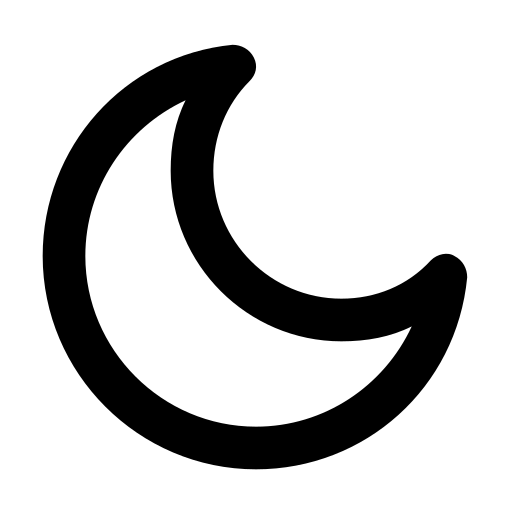
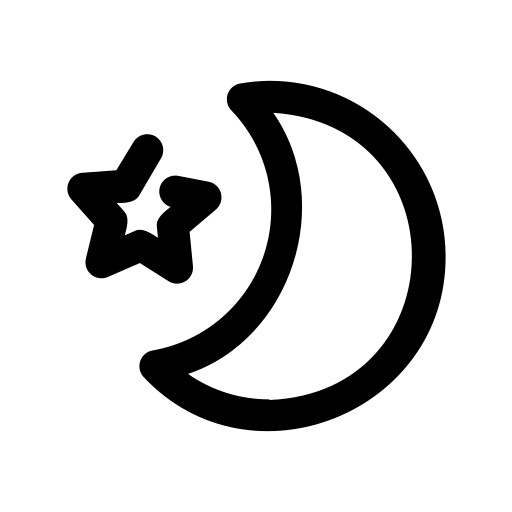
feat: add classes for dark theme

diff --git a/rs-react-app/src/components/Pagination/Pagination.tsx b/rs-react-app/src/components/Pagination/Pagination.tsx
@@ -35,11 +35,13 @@ export default function Pagination({
     buttons.push(pages);
   }
   const paginationButtonClassName =
-    'flex h-10 w-10 items-center justify-center rounded-lg border-2 border-teal-300 font-bold shadow-sm transition-colors hover:bg-purple-300 hover:text-teal-800';
+    'flex h-10 w-10 items-center justify-center rounded-lg border-2 border-teal-300 font-bold shadow-sm transition-colors hover:bg-purple-300 hover:text-teal-800 dark:border-teal-700 dark:hover:bg-purple-900 dark:hover:text-teal-100';
   const paginationArrowClassName =
-    'flex h-10 min-w-16 items-center justify-center rounded-lg border-2 border-teal-300 bg-white px-3 font-bold text-teal-700 shadow-sm transition-colors hover:bg-purple-300 hover:text-teal-800';
-  const activeButtonClassName = 'bg-fuchsia-200 text-fuchsia-700';
-  const defaultButtonClassName = 'bg-white text-teal-700';
+    'flex h-10 min-w-16 items-center justify-center rounded-lg border-2 border-teal-300 bg-white px-3 font-bold text-teal-700 shadow-sm transition-colors hover:bg-purple-300 hover:text-teal-800 dark:border-teal-700 dark:bg-slate-900 dark:text-teal-100 dark:hover:bg-purple-900 dark:hover:text-teal-100';
+  const activeButtonClassName =
+    'bg-fuchsia-200 text-fuchsia-700 dark:bg-fuchsia-800 dark:text-fuchsia-100';
+  const defaultButtonClassName =
+    'bg-white text-teal-700 dark:bg-slate-900 dark:text-teal-100';
 
   return (
     <div
@@ -47,7 +49,7 @@ export default function Pagination({
         searchParams.delete('details');
         setSearchParams(searchParams);
       }}
-      className="py-8 flex items-center justify-center gap-2"
+      className="py-8 flex items-center justify-center gap-2 text-teal-700 dark:text-teal-200"
     >
       {prev && (
         <button

diff --git a/rs-react-app/src/components/SearchForm/SearchForm.tsx b/rs-react-app/src/components/SearchForm/SearchForm.tsx
@@ -33,13 +33,14 @@ export default function SearchForm({
           onSubmit(search);
         }}
         className={`flex w-full max-w-xl items-center gap-5 rounded-2xl 
-            border border-teal-200 bg-white p-6 shadow-lg shadow-teal-100 ${className ?? ''}`}
+            border border-teal-200 bg-white p-6 shadow-lg shadow-teal-100 transition-colors duration-300 dark:border-teal-800 dark:bg-slate-900 dark:shadow-teal-950 ${className ?? ''}`}
       >
         <div className="relative flex-1">
           <Input
             className="w-full rounded-xl border-2 border-teal-300 bg-fuchsia-50 py-3 pl-11 pr-4
                text-teal-700 outline-none transition-colors duration-300 placeholder:text-teal-300 
-               focus:border-purple-400 focus:ring-4 focus:ring-purple-100"
+               focus:border-purple-400 focus:ring-4 focus:ring-purple-100 dark:border-teal-700 dark:bg-slate-950
+               dark:text-teal-100 dark:placeholder:text-teal-600 dark:focus:border-fuchsia-500 dark:focus:ring-purple-950"
             onChange={(event: React.ChangeEvent<HTMLInputElement>) => {
               setInputValue(event.target.value);
             }}
@@ -52,7 +53,7 @@ export default function SearchForm({
           <img
             src={searchSVG}
             alt="spinner"
-            className="block pointer-events-none absolute left-4 top-1/2 h-5 w-5 -translate-y-1/2 text-teal-400"
+            className="block pointer-events-none absolute left-4 top-1/2 h-5 w-5 -translate-y-1/2 text-teal-400 dark:text-teal-500"
           />
         </div>
         <Button type="submit" loading={loading}>

diff --git a/rs-react-app/src/pages/About.tsx b/rs-react-app/src/pages/About.tsx
@@ -1,16 +1,16 @@
 import authorImage from '../assets/author.png';
 export default function About() {
   return (
-    <main className="flex min-h-screen items-center justify-center bg-fuchsia-50 p-4">
+    <main className="flex min-h-screen items-center justify-center bg-fuchsia-50 p-4 transition-colors duration-300 dark:bg-slate-950">
       <section
         role="status"
-        className="flex w-full max-w-4xl flex-col items-center rounded-3xl border border-teal-100 bg-white px-8 py-12 text-center shadow-xl"
+        className="flex w-full max-w-4xl flex-col items-center rounded-3xl border border-teal-100 bg-white px-8 py-12 text-center shadow-xl transition-colors duration-300 dark:border-teal-800 dark:bg-slate-900 dark:shadow-teal-950"
       >
-        <div className="text-2xl text-teal-700">
+        <div className="text-2xl text-teal-700 dark:text-teal-100">
           <span>
             This application was created by{' '}
             <a
-              className="text-yellow-400 cursor-pointer"
+              className="text-yellow-400 cursor-pointer dark:text-yellow-300"
               href="https://github.com/SwetlanaAng"
               target="_blank"
               rel="noreferrer"
@@ -19,7 +19,7 @@ export default function About() {
             </a>{' '}
             as part of the{' '}
             <a
-              className="text-yellow-400 cursor-pointer"
+              className="text-yellow-400 cursor-pointer dark:text-yellow-300"
               href="https://rs.school/courses/reactjs"
               target="_blank"
               rel="noreferrer"

diff --git a/rs-react-app/src/components/DetailedCardRoute/DetailedCardRoute.tsx b/rs-react-app/src/components/DetailedCardRoute/DetailedCardRoute.tsx
@@ -30,13 +30,13 @@ export default function DetailedCardRoute() {
   }
   if (character?.id !== detailsId) {
     return (
-      <div className="mx-1 my-4 flex min-h-60 w-40 shrink-0 items-center justify-center self-start rounded-2xl border-2 border-teal-200 bg-white p-2 shadow-lg shadow-teal-100 sm:mx-3 sm:min-h-[450px] sm:w-96 sm:p-6">
+      <div className="mx-1 my-4 flex min-h-60 w-40 shrink-0 items-center justify-center self-start rounded-2xl border-2 border-teal-200 bg-white p-2 shadow-lg shadow-teal-100 transition-colors duration-300 dark:border-teal-800 dark:bg-slate-800 dark:shadow-teal-950 sm:mx-3 sm:min-h-[450px] sm:w-96 sm:p-6">
         <Spinner />
       </div>
     );
   }
   return (
-    <div className="mx-1 my-4 w-40 shrink-0 self-start rounded-2xl border-2 border-teal-200 bg-white p-2 shadow-lg shadow-teal-100 sm:mx-3 sm:w-auto sm:p-6">
+    <div className="mx-1 my-4 w-40 shrink-0 self-start rounded-2xl border-2 border-teal-200 bg-white p-2 shadow-lg shadow-teal-100 transition-colors duration-300 dark:border-teal-800 dark:bg-slate-800 dark:shadow-teal-950 sm:mx-3 sm:w-auto sm:p-6">
       <DetailedCard
         {...character}
         onClose={() => {

diff --git a/rs-react-app/src/components/DetailedCard/DetailedCard.tsx b/rs-react-app/src/components/DetailedCard/DetailedCard.tsx
@@ -21,12 +21,12 @@ export default function DetailedCard({
   location,
 }: DetailedCardProps) {
   return (
-    <div className="relative w-full overflow-hidden rounded border-2 border-purple-200 shadow-lg sm:max-w-sm">
+    <div className="relative w-full overflow-hidden rounded border-2 border-purple-200 bg-white dark:border-teal-800  text-teal-900 shadow-lg transition-colors duration-300 dark:border-purple-800 dark:bg-slate-900 dark:text-teal-50 dark:shadow-purple-950 sm:max-w-sm">
       <button
         type="button"
         aria-label="Close details"
         onClick={onClose}
-        className="absolute right-2 top-2 flex h-8 w-8 items-center justify-center rounded-full bg-white/90 text-xl font-bold text-purple-700 shadow-md transition-colors hover:bg-purple-200"
+        className="absolute right-2 top-2 flex h-8 w-8 items-center justify-center rounded-full bg-white/90 text-xl font-bold text-purple-700 shadow-md transition-colors hover:bg-purple-200 dark:bg-slate-950/90 dark:text-fuchsia-200 dark:hover:bg-purple-900"
       >
         ×
       </button>

diff --git a/rs-react-app/src/pages/NotFound.tsx b/rs-react-app/src/pages/NotFound.tsx
@@ -4,12 +4,12 @@ import notFoundImage from '../assets/404.png';
 
 export default function NotFound() {
   return (
-    <main className="flex min-h-screen items-center justify-center bg-fuchsia-50 px-4">
+    <main className="flex min-h-screen items-center justify-center bg-fuchsia-50 px-4 transition-colors duration-300 dark:bg-slate-950">
       <section
         role="status"
-        className="flex w-full max-w-4xl flex-col items-center rounded-3xl border border-teal-100 bg-white px-8 py-12 text-center shadow-xl"
+        className="flex w-full max-w-4xl flex-col items-center rounded-3xl border border-teal-100 bg-white px-8 py-12 text-center shadow-xl transition-colors duration-300 dark:border-teal-800 dark:bg-slate-900 dark:shadow-teal-950"
       >
-        <h1 className="text-2xl font-bold text-teal-700">
+        <h1 className="text-2xl font-bold text-teal-700 dark:text-teal-100">
           Oops! The page was not found
         </h1>
         <img

diff --git a/rs-react-app/src/Layouts/Header.tsx b/rs-react-app/src/Layouts/Header.tsx
@@ -7,12 +7,15 @@ import { useTheme } from '../hooks/useTheme';
 export default function Header() {
   const { theme, toggleTheme } = useTheme();
   return (
-    <header className="flex items-center justify-between bg-teal-100 px-5 py-3">
+    <header className="flex items-center justify-between bg-teal-100 px-5 py-3 text-teal-800 shadow-sm transition-colors duration-300 dark:bg-slate-950 dark:text-teal-100 dark:shadow-teal-950">
       <Link to="/" className="">
         <img src={logo} alt="Morty" className="h-12 w-auto object-contain" />
       </Link>
       <div className="flex items-center gap-3">
-        <Link to="/about" className="">
+        <Link
+          to="/about"
+          className="font-bold transition-colors hover:text-purple-700 dark:hover:text-fuchsia-300"
+        >
           About
         </Link>
         <button type="button" onClick={toggleTheme}>

diff --git a/rs-react-app/src/components/Card/Card.tsx b/rs-react-app/src/components/Card/Card.tsx
@@ -25,7 +25,7 @@ export default function Card({ name, image, id }: CardProps) {
           });
         }
       }}
-      className="h-60 w-32 overflow-hidden rounded border-2 border-purple-200 shadow-lg sm:h-[450px] sm:w-auto sm:max-w-sm"
+      className="h-60 w-32 overflow-hidden rounded border-2 border-purple-200 bg-white text-teal-900 shadow-lg transition-colors duration-300  dark:border-purple-800 dark:bg-slate-900 dark:text-teal-50 dark:shadow-purple-950 sm:h-[450px] sm:w-auto sm:max-w-sm"
     >
       <img className="w-full" src={image} alt={name} />
       <div className="px-6 py-4 text-center">

diff --git a/rs-react-app/src/components/CardsBox/CardsBox.tsx b/rs-react-app/src/components/CardsBox/CardsBox.tsx
@@ -16,7 +16,7 @@ export default function CardsBox({ characters }: CardsBoxProps) {
           setSearchParams(searchParams);
         }}
         className="mx-1 my-4 rounded-2xl border-2 border-teal-200 bg-white 
-      p-2 shadow-lg shadow-teal-100 sm:mx-3 sm:p-6"
+      p-2 shadow-lg shadow-teal-100 transition-colors duration-300 dark:border-teal-800 dark:bg-slate-800 dark:shadow-teal-950 sm:mx-3 sm:p-6"
       >
         <div className="flex flex-wrap items-center justify-center gap-2 sm:gap-3">
           {characters.map((character) => (

diff --git a/rs-react-app/src/shared/classes.ts b/rs-react-app/src/shared/classes.ts
@@ -1,2 +1,2 @@
 export const buttonClassName =
-  'rounded-xl border-2 border-teal-300 bg-purple-300 px-6 py-3 font-bold text-teal-700 shadow-md transition-colors duration-300 hover:bg-purple-700 hover:text-teal-300';
+  'rounded-xl border-2 border-teal-300 bg-purple-300 px-6 py-3 font-bold text-teal-700 shadow-md transition-colors duration-300 hover:bg-purple-700 hover:text-teal-300 dark:border-teal-500 dark:bg-purple-900 dark:text-teal-100 dark:hover:bg-fuchsia-700 dark:hover:text-white';

diff --git a/rs-react-app/src/components/ErrorUI/ErrorUI.tsx b/rs-react-app/src/components/ErrorUI/ErrorUI.tsx
@@ -6,7 +6,9 @@ interface ErrorUIProps {
 export default function ErrorUI({ errorMessage, children }: ErrorUIProps) {
   return (
     <div className="flex flex-col items-center justify-center">
-      <p className="mt-6 text-xl text-fuchsia-600">{errorMessage}</p>
+      <p className="mt-6 text-xl text-fuchsia-600 dark:text-fuchsia-300">
+        {errorMessage}
+      </p>
       <img className="block" src={gif} alt="Error image" />
       {children}
     </div>

diff --git a/rs-react-app/src/components/InfoSpan/InfoSpan.tsx b/rs-react-app/src/components/InfoSpan/InfoSpan.tsx
@@ -3,7 +3,7 @@ interface InfoSpanProps {
 }
 export default function InfoSpan({ text }: InfoSpanProps) {
   return (
-    <span className="inline-block bg-purple-300 rounded-full px-3 py-1 text-sm font-semibold text-gray-700 mr-2 mb-2">
+    <span className="inline-block bg-purple-300 rounded-full px-3 py-1 text-sm font-semibold text-gray-700 mr-2 mb-2 transition-colors duration-300 dark:bg-purple-900 dark:text-teal-100">
       {text}
     </span>
   );
